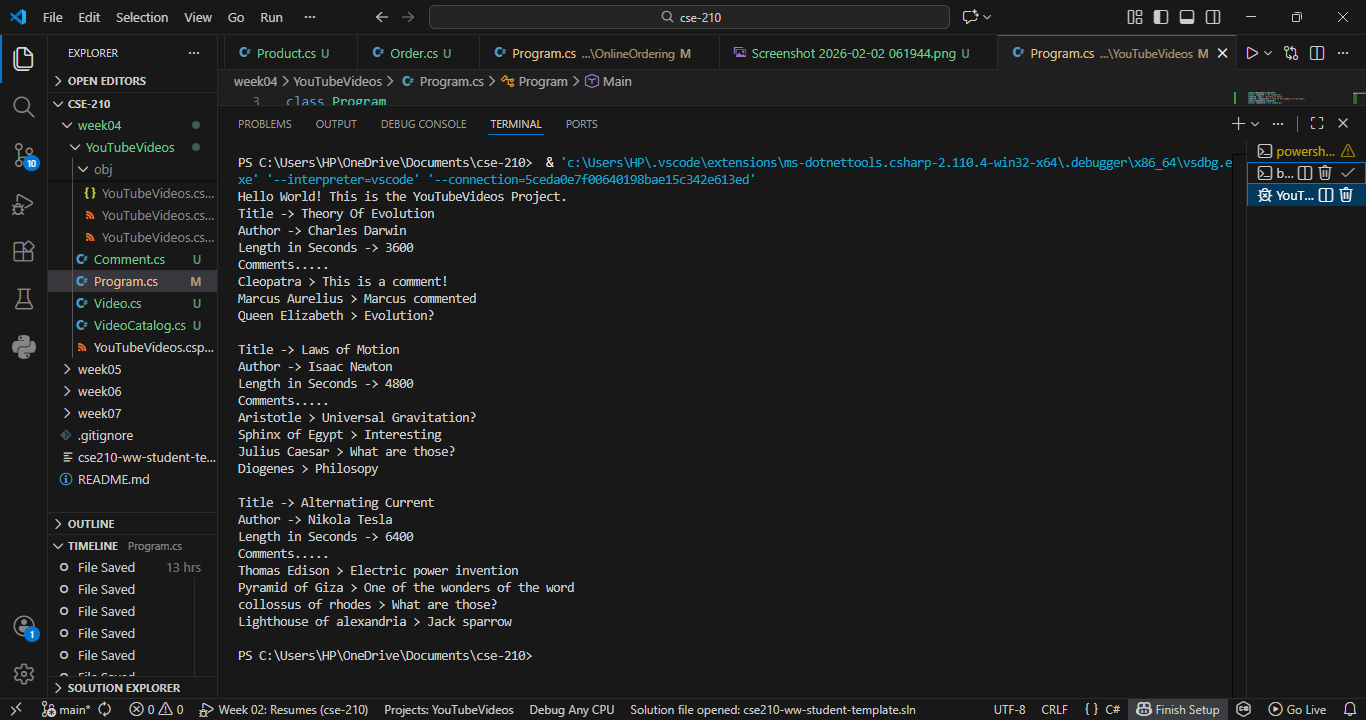
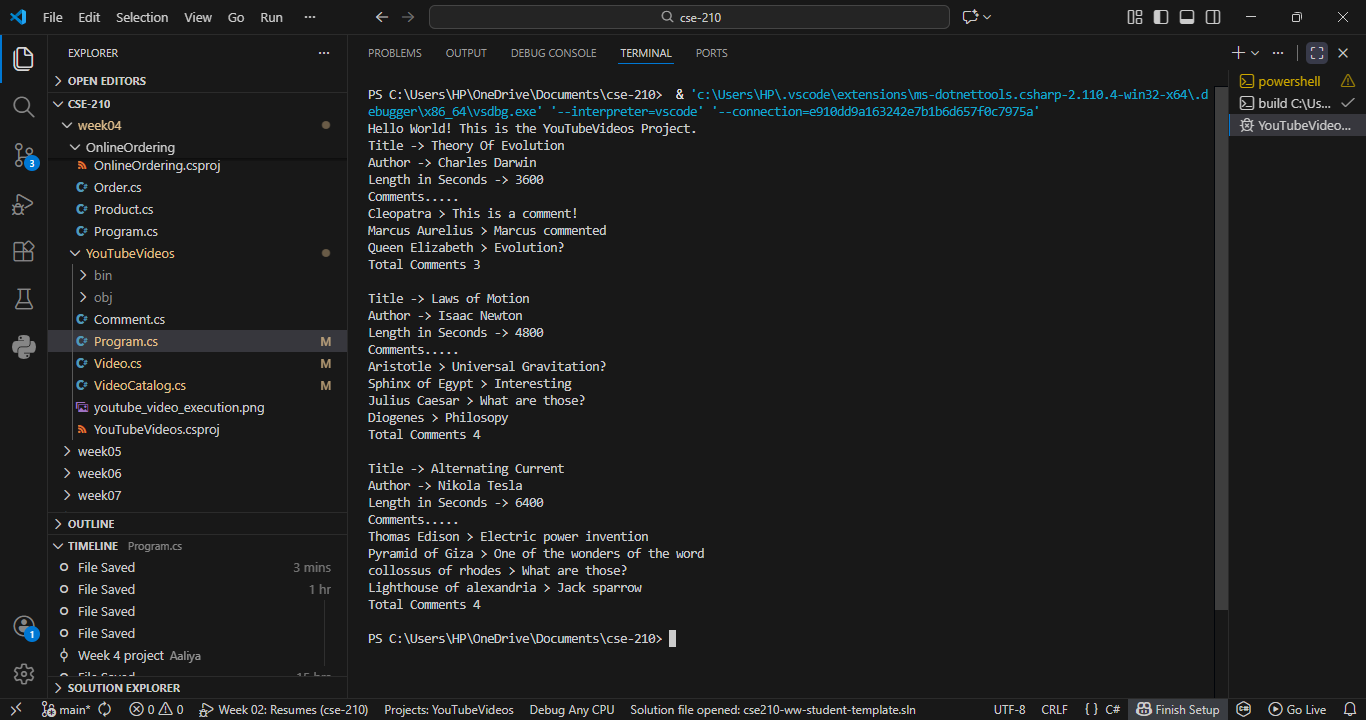
Modified

diff --git a/week04/YouTubeVideos/Program.cs b/week04/YouTubeVideos/Program.cs
@@ -28,6 +28,7 @@ class Program
         comment3._name = "Queen Elizabeth";
         comment3._commentText = "Evolution? ";
         video1.AddComment(comment3);
+       
         
 
         // Second Video Instance
@@ -52,6 +53,7 @@ class Program
         comment7._commentText = "Philosopy";
         video2.AddComment(comment7);
         
+        
        // Third Video Instance
        Video video3 = new Video();
         video3._author = "Nikola Tesla";
@@ -73,6 +75,7 @@ class Program
         comment11._name = "Lighthouse of alexandria";
         comment11._commentText = "Jack sparrow";
         video3.AddComment(comment11);
+       
             
         VideoCatalog Catalog = new VideoCatalog();
         Catalog.AddVideo(video1);

diff --git a/week04/YouTubeVideos/VideoCatalog.cs b/week04/YouTubeVideos/VideoCatalog.cs
@@ -12,6 +12,8 @@ public class VideoCatalog
         foreach (Video item in _videos)
         {
             item.VideoDisplay();
+            Console.WriteLine($"Total Comments {item.CommentCount()}");
+             Console.WriteLine("");
         }
     }
 

diff --git a/week04/YouTubeVideos/Video.cs b/week04/YouTubeVideos/Video.cs
@@ -35,7 +35,7 @@ public class Video
         Console.WriteLine($"Length in Seconds -> {_videoLengthInSec}");
         Console.WriteLine("Comments.....");
         Display();
-        Console.WriteLine("");
+        
 
     }
 
